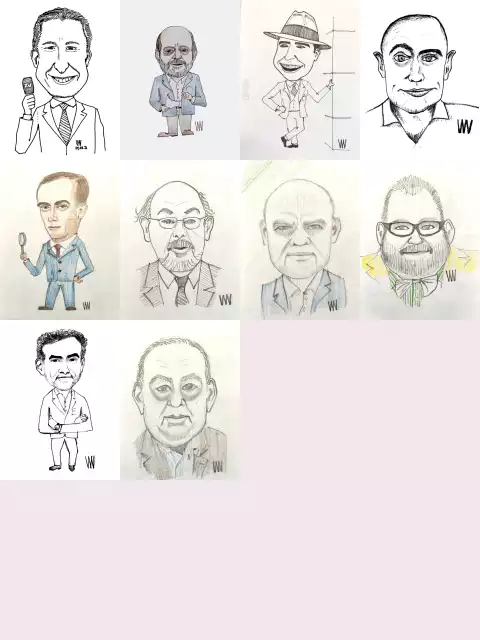
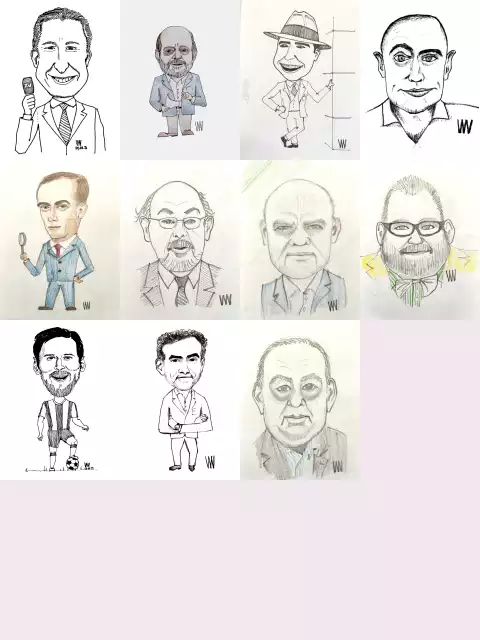
Version 20210408

Changed region(s): [[0.25, 0.5, 0.5, 0.75], [0.5, 0.5312, 0.75, 0.75], [0.0625, 0.5, 0.2188, 0.75]]

diff --git a/galeria-ArtistasPeriodistas.html b/galeria-ArtistasPeriodistas.html
@@ -39,14 +39,14 @@
 					<area shape="rect" coords="120,160,240,320" onclick="muestraImagen('images/personajes/JoaquinMSola.webp ')" alt="Joaquin M Sola ">
 					<area shape="rect" coords="240,160,360,320" onclick="muestraImagen('images/personajes/JorgeFDiaz.webp   ')" alt="Jorge Fernandez Diaz">
 					<area shape="rect" coords="360,160,480,320" onclick="muestraImagen('images/personajes/JorgeLanata.webp	')" alt="Jorge Lanata">
-					<area shape="rect" coords="000,320,120,480" onclick="muestraImagen('images/personajes/LuisMajul.webp	  ')" alt="Luis Majul">
-					<area shape="rect" coords="120,320,240,480" onclick="muestraImagen('images/personajes/RobertoCachan.webp')" alt="Roberto Cachanosky">
-					<area shape="rect" coords="240,320,360,480" onclick="muestraImagen('images/personajes/WillieV-simpatico+txt.webp')" alt="Roberto Cacha">
-					<area shape="rect" coords="360,320,480,480" onclick="muestraImagen('images/personajes/WillieV-simpatico+txt.webp')" alt="Roberto Cacha">
-					<area shape="rect" coords="000,000,480,640" onclick="muestraImagen('images/personajes/WillieV-simpatico+txt.webp')" alt="Roberto Cacha">
-					<area shape="rect" coords="120,240,480,640" onclick="muestraImagen('images/personajes/WillieV-simpatico+txt.webp')" alt="Roberto Cacha">
-					<area shape="rect" coords="240,360,480,640" onclick="muestraImagen('images/personajes/WillieV-simpatico+txt.webp')" alt="Roberto Cacha">
-					<area shape="rect" coords="360,480,480,640" onclick="muestraImagen('images/personajes/WillieV-simpatico+txt.webp')" alt="Roberto Cacha">
+					<area shape="rect" coords="000,320,120,480" onclick="muestraImagen('images/personajes/LionelMessi.webp	')" alt="Lionel Messi">
+					<area shape="rect" coords="120,320,240,480" onclick="muestraImagen('images/personajes/LuisMajul.webp	  ')" alt="Luis Majul">
+					<area shape="rect" coords="240,320,360,480" onclick="muestraImagen('images/personajes/RobertoCachan.webp')" alt="Roberto Cachanosky">
+					<area shape="rect" coords="360,320,480,480" onclick="muestraImagen('images/personajes/WillieV-simpatico+txt.webp')" alt="el dibujante">
+					<area shape="rect" coords="000,000,480,640" onclick="muestraImagen('images/personajes/WillieV-simpatico+txt.webp')" alt="el dibujante">
+					<area shape="rect" coords="120,240,480,640" onclick="muestraImagen('images/personajes/WillieV-simpatico+txt.webp')" alt="el dibujante">
+					<area shape="rect" coords="240,360,480,640" onclick="muestraImagen('images/personajes/WillieV-simpatico+txt.webp')" alt="el dibujante">
+					<area shape="rect" coords="360,480,480,640" onclick="muestraImagen('images/personajes/WillieV-simpatico+txt.webp')" alt="el dibujante">
 
 				</map>
 				<img usemap="#primary" src="images/personajes/galeria-ArtistasPeriodistas.webp" alt="Artistas y Periodistas ">
